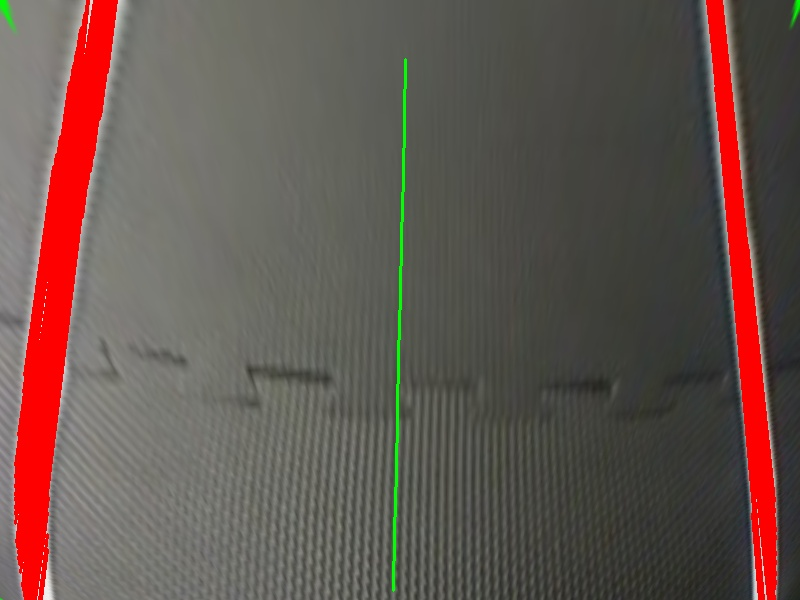
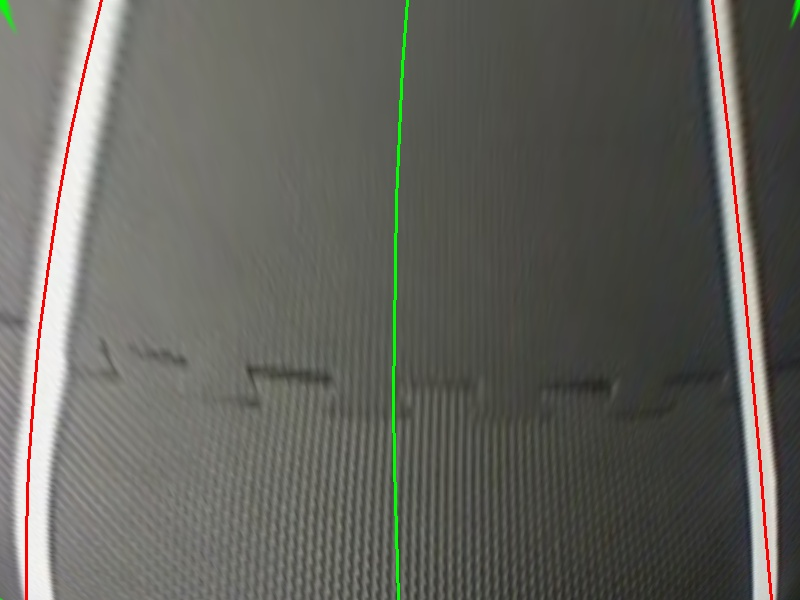
Implemented 2nd order polynomial for curve fitting andcenter path estimation

diff --git a/Lane Detection with middle curve approximation/lane detection v3.py b/Lane Detection with middle curve approximation/lane detection v3.py
@@ -60,10 +60,8 @@ class lane:
 	                	right_lane_points[0].append(x2)
 	                	right_lane_points[1].append(y1)
 	                	right_lane_points[1].append(y2)
+	               	
 	                	
-	             
-	                		
-	                	cv.line(image, (x1,y1), (x2, y2), (0,0,255),2)
                 	else:
                 	
                 		left_lane_points[0].append(x1)
@@ -71,34 +69,56 @@ class lane:
 	                	left_lane_points[1].append(y1)
 	                	left_lane_points[1].append(y2)
                 		
-               
-                			
-                		cv.line(image, (x1,y1), (x2, y2), (0,0,255),2)
+               	
     	
-    	res1=stats.linregress(right_lane_points[0],right_lane_points[1])
-    	res2=stats.linregress(left_lane_points[0],left_lane_points[1])
+    	res1=np.polyfit(right_lane_points[1],right_lane_points[0],2)
+    	res2=np.polyfit(left_lane_points[1],left_lane_points[0],2)
     	
     	right_lane_max_y=max(right_lane_points[1])
     	right_lane_min_y=min(right_lane_points[1])
     	
     	
     	
-    	increment_value=(right_lane_max_y-right_lane_min_y)//10;
-    	
-    	mid_points=[]
-    	
-    	for i in range(1,11):
-    		y=right_lane_min_y+(i*increment_value)
-    		x=(((y-res1.intercept)/res1.slope)+((y-res2.intercept)/res2.slope))/2
-    		mid_points.append((int(x),y))
-    	
-    	print(mid_points)  			
+    	y_values=np.linspace(right_lane_min_y,right_lane_max_y,10,dtype=int)
+    	right_x=(res1[0]*y_values**2+res1[1]*y_values+res1[2]).astype(int)
+    	left_x=(res2[0]*y_values**2+res2[1]*y_values+res2[2]).astype(int)
     	
     	for i in range(0,9):
-    		cv.line(image,mid_points[i],mid_points[i+1],(0,255,0),2)	
+    		x1=right_x[i].item()    #converting numpy.int64 to python int
+    		y1=y_values[i].item()
+    		x2=right_x[i+1].item()
+    		y2=y_values[i+1].item()
+    	
+    		cv.line(image,(x1,y1),(x2,y2),(0,0,255),2)
+    		
+    		
+    		x1=left_x[i].item()    
+    		y1=y_values[i].item()
+    		x2=left_x[i+1].item()
+    		y2=y_values[i+1].item()
+    	
+    		cv.line(image,(x1,y1),(x2,y2),(0,0,255),2)
+    	
+    	
+    	
+    	
+    	x_values_center=((res1[0]*y_values**2+res1[1]*y_values+res1[2])+(res2[0]*y_values**2+res2[1]*y_values+res2[2]))//2
+    	x_values_center=x_values_center.astype(int)			
+    	
+    	for i in range(0,9):
+    		x1=x_values_center[i].item()    #converting numpy.int64 to python int
+    		y1=y_values[i].item()
+    		x2=x_values_center[i+1].item()
+    		y2=y_values[i+1].item()
+    	
+    		cv.line(image,(x1,y1),(x2,y2),(0,255,0),2)	
     	
     	  
     	return image
+    	
+    	
+    	
+    	
         
     def convertImage(msg):
         
